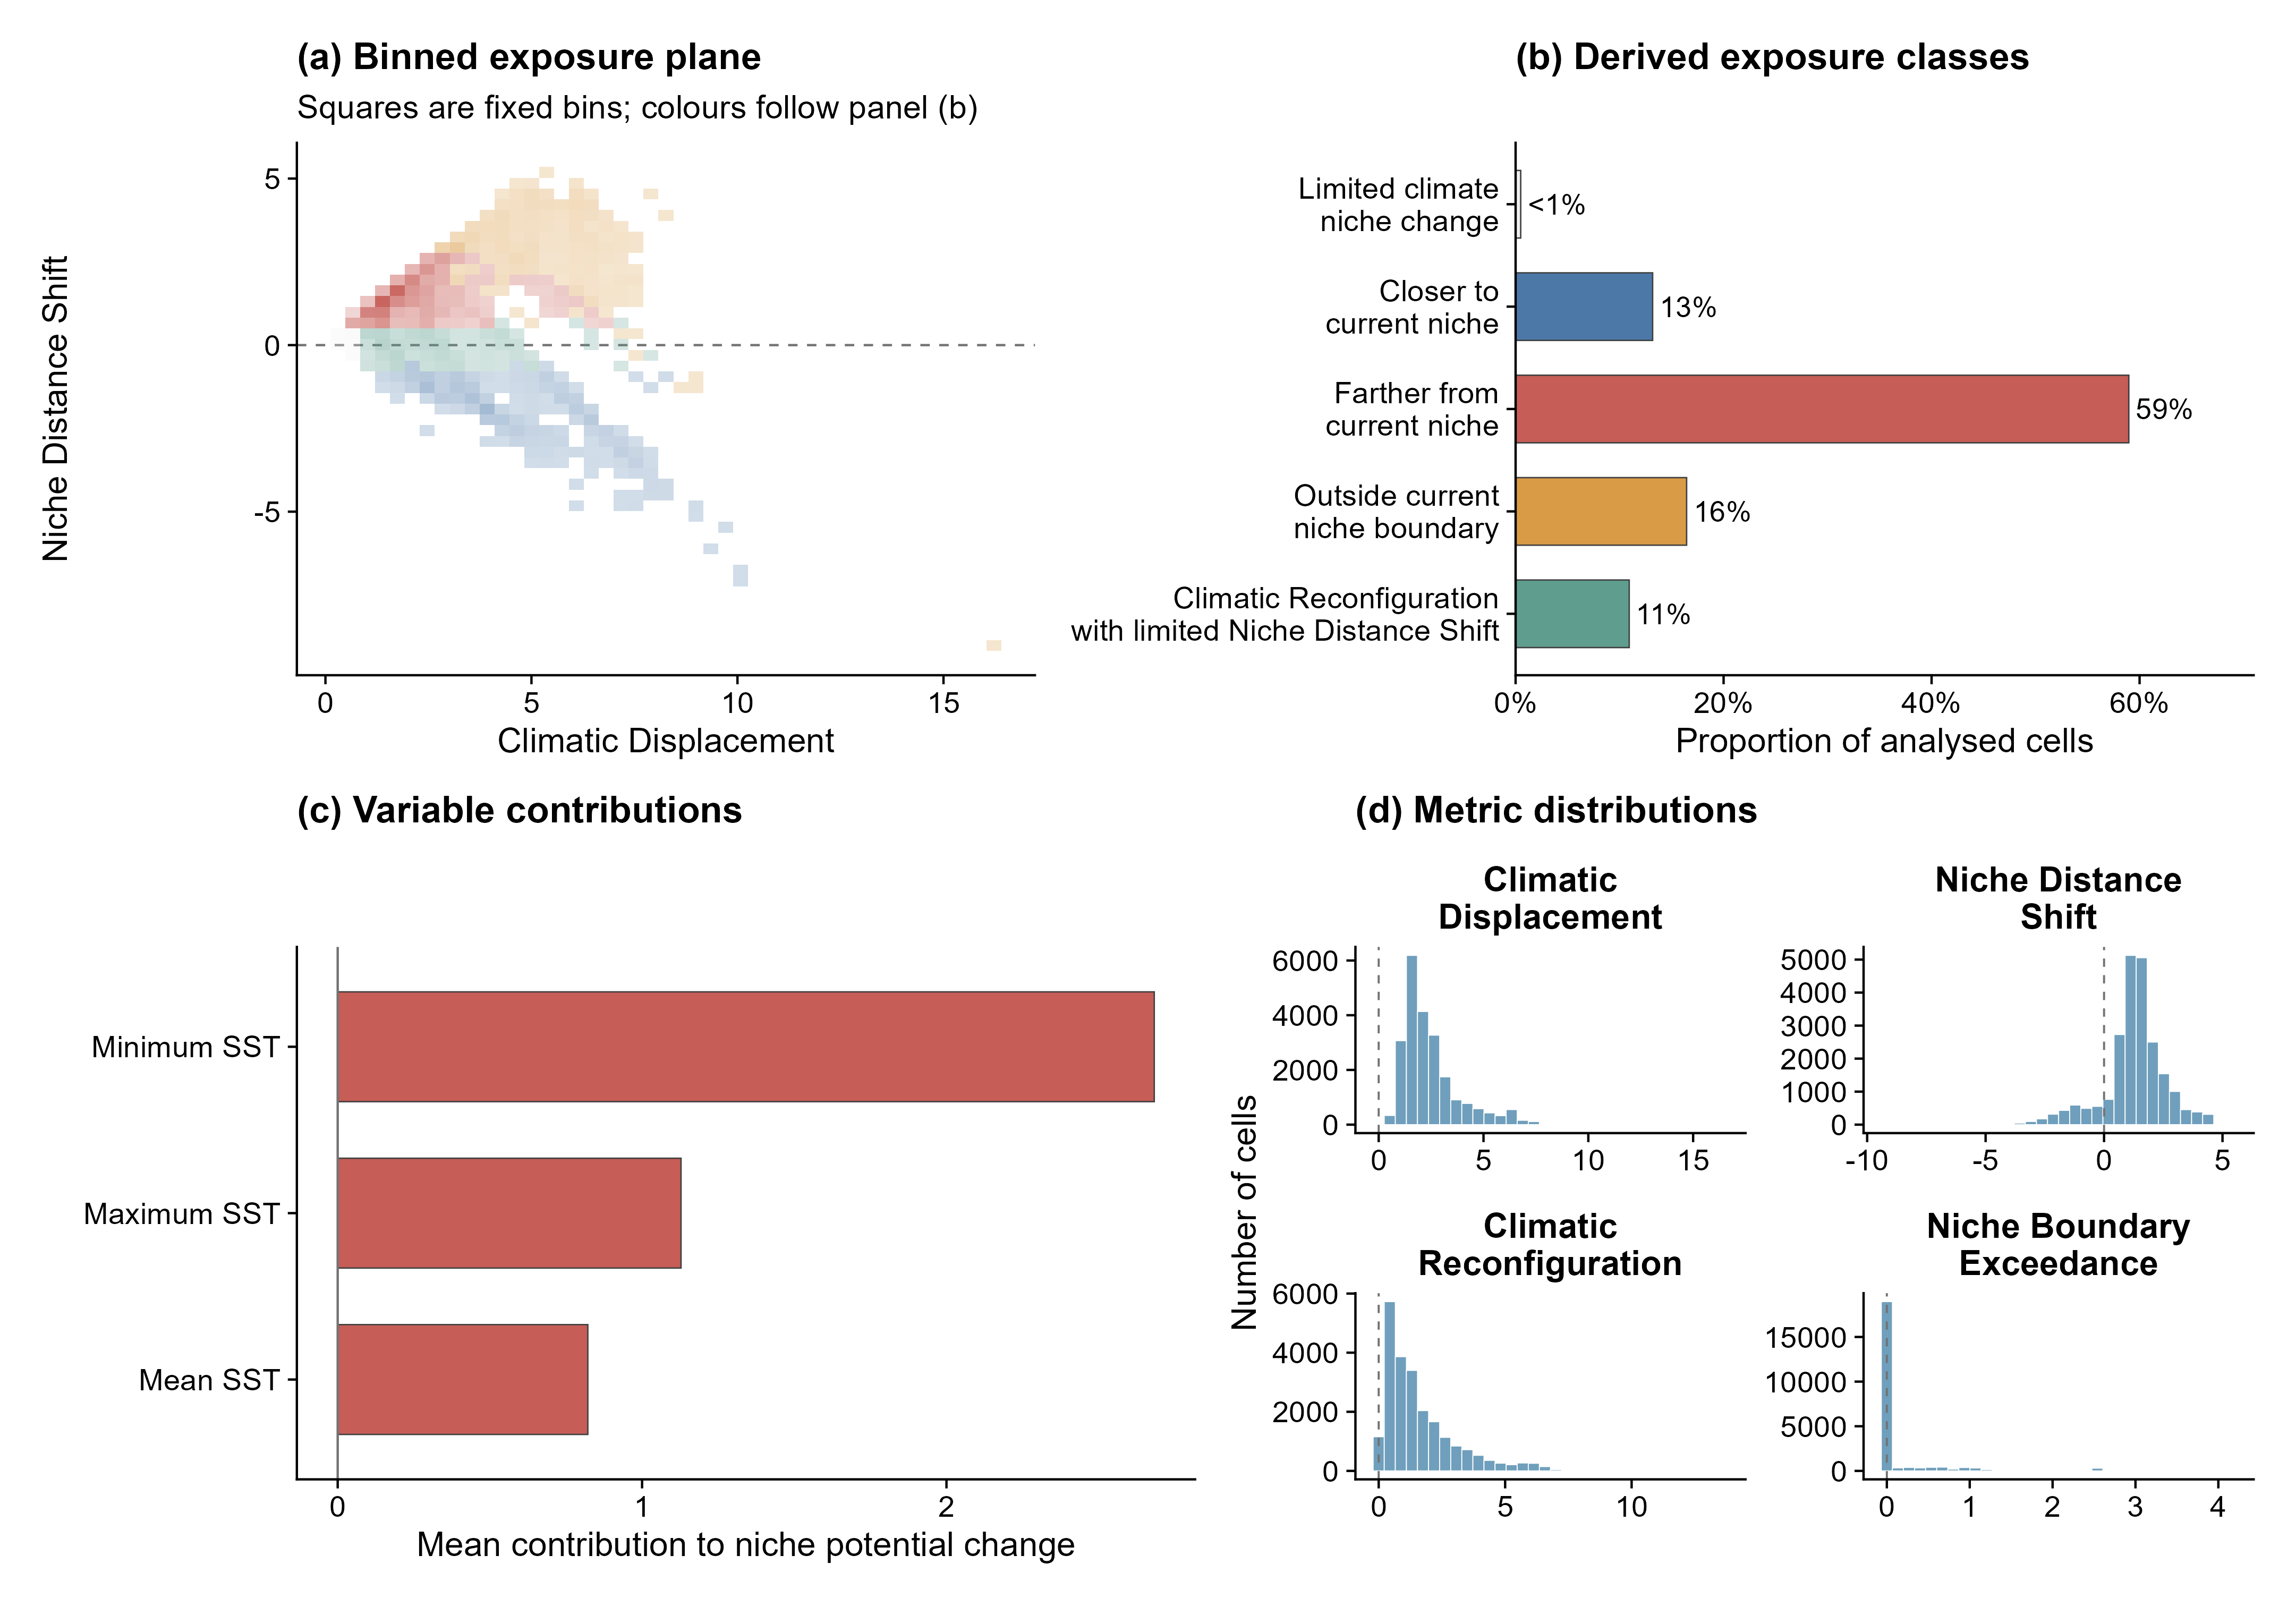
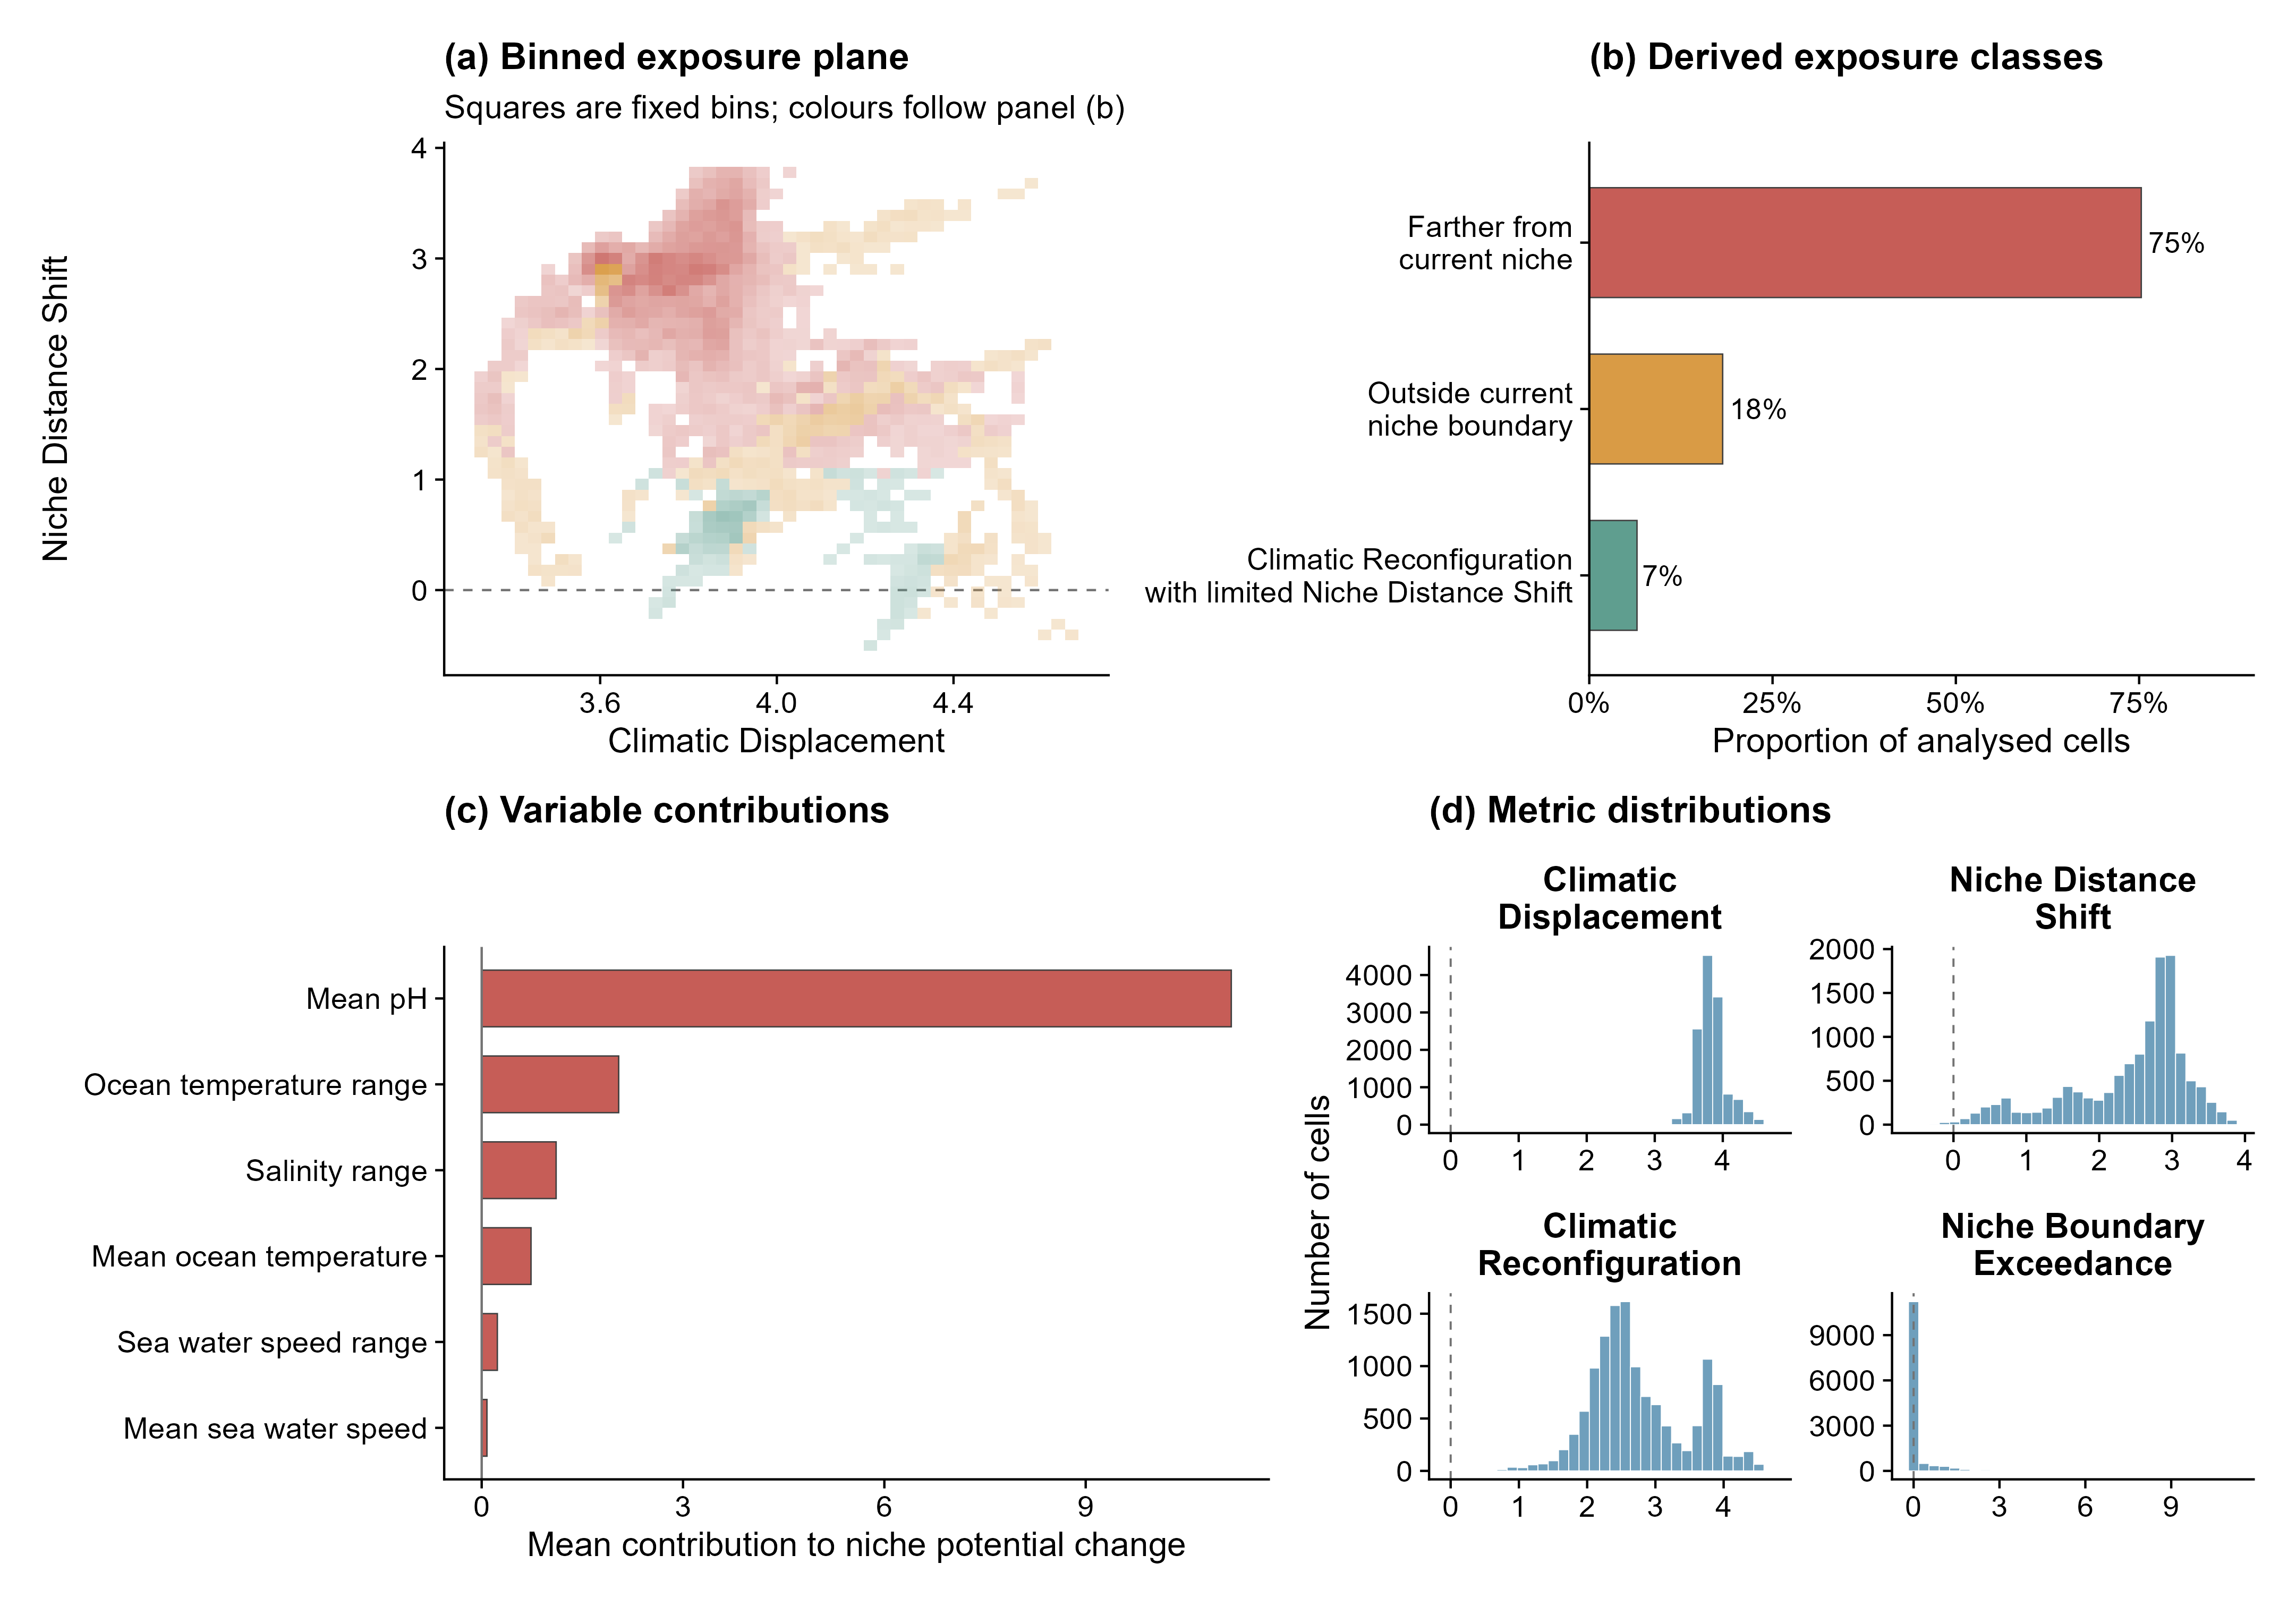
Revise Mediterranean Bio-ORACLE example

diff --git a/README.md b/README.md
@@ -99,6 +99,15 @@ arguments such as `tolerance`, `stable_climate_change`,
 `stable_reconfiguration`, `boundary_exceedance_tolerance`, and
 `conflict_ratio`.
 
+## Worked example
+
+The [Examples](https://bohao0813.github.io/climniche/articles/climniche-examples.html)
+page uses a Mediterranean European anchovy case study with Bio-ORACLE v3 marine
+climate layers. It shows VIF-screened multivariate predictors, an SDM
+suitability threshold selected by maximum test-set TSS, continuous suitability
+weights in the climniche fit, maps of the four metrics, and the derived exposure
+classes.
+
 ## Contributor
 
 We are welcome any helps! Please make a pull request or reach out to

diff --git a/NEWS.md b/NEWS.md
@@ -8,6 +8,9 @@
   four metrics.
 * Added publication-oriented PDF outputs for the Mediterranean anchovy map and
   summary figures used in the vignette.
+* Refreshed the Mediterranean anchovy example with Bio-ORACLE v3 marine climate
+  layers, VIF-screened multivariate predictors and an SDM suitability threshold
+  selected by maximum test-set TSS.
 
 # climniche 0.1.1
 